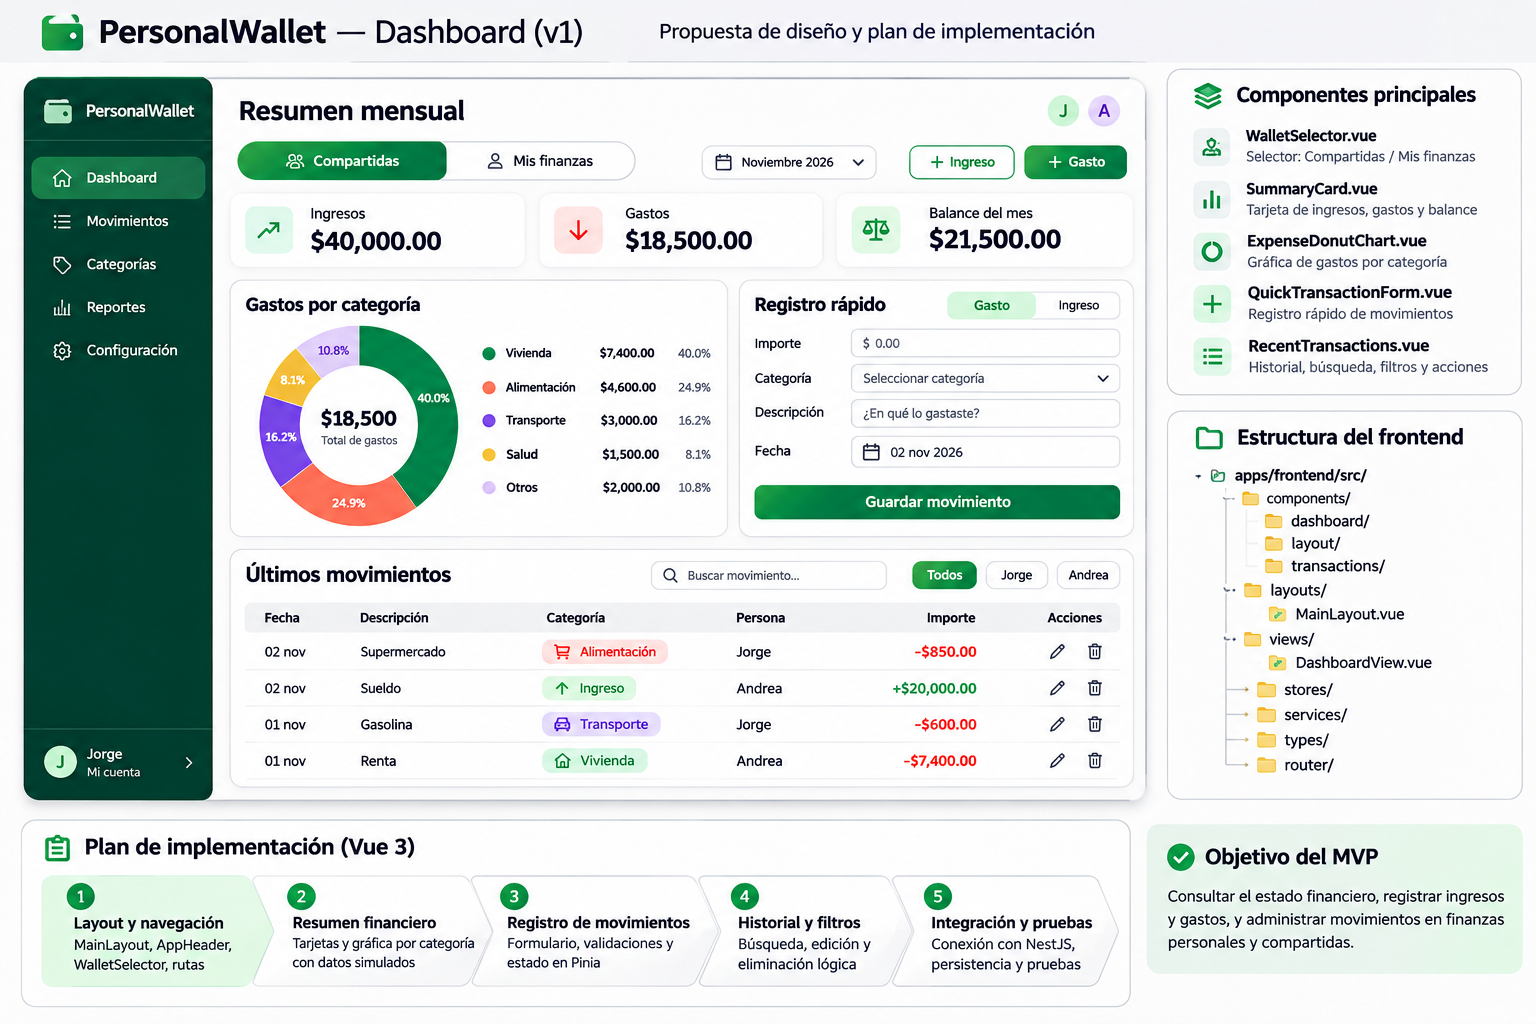
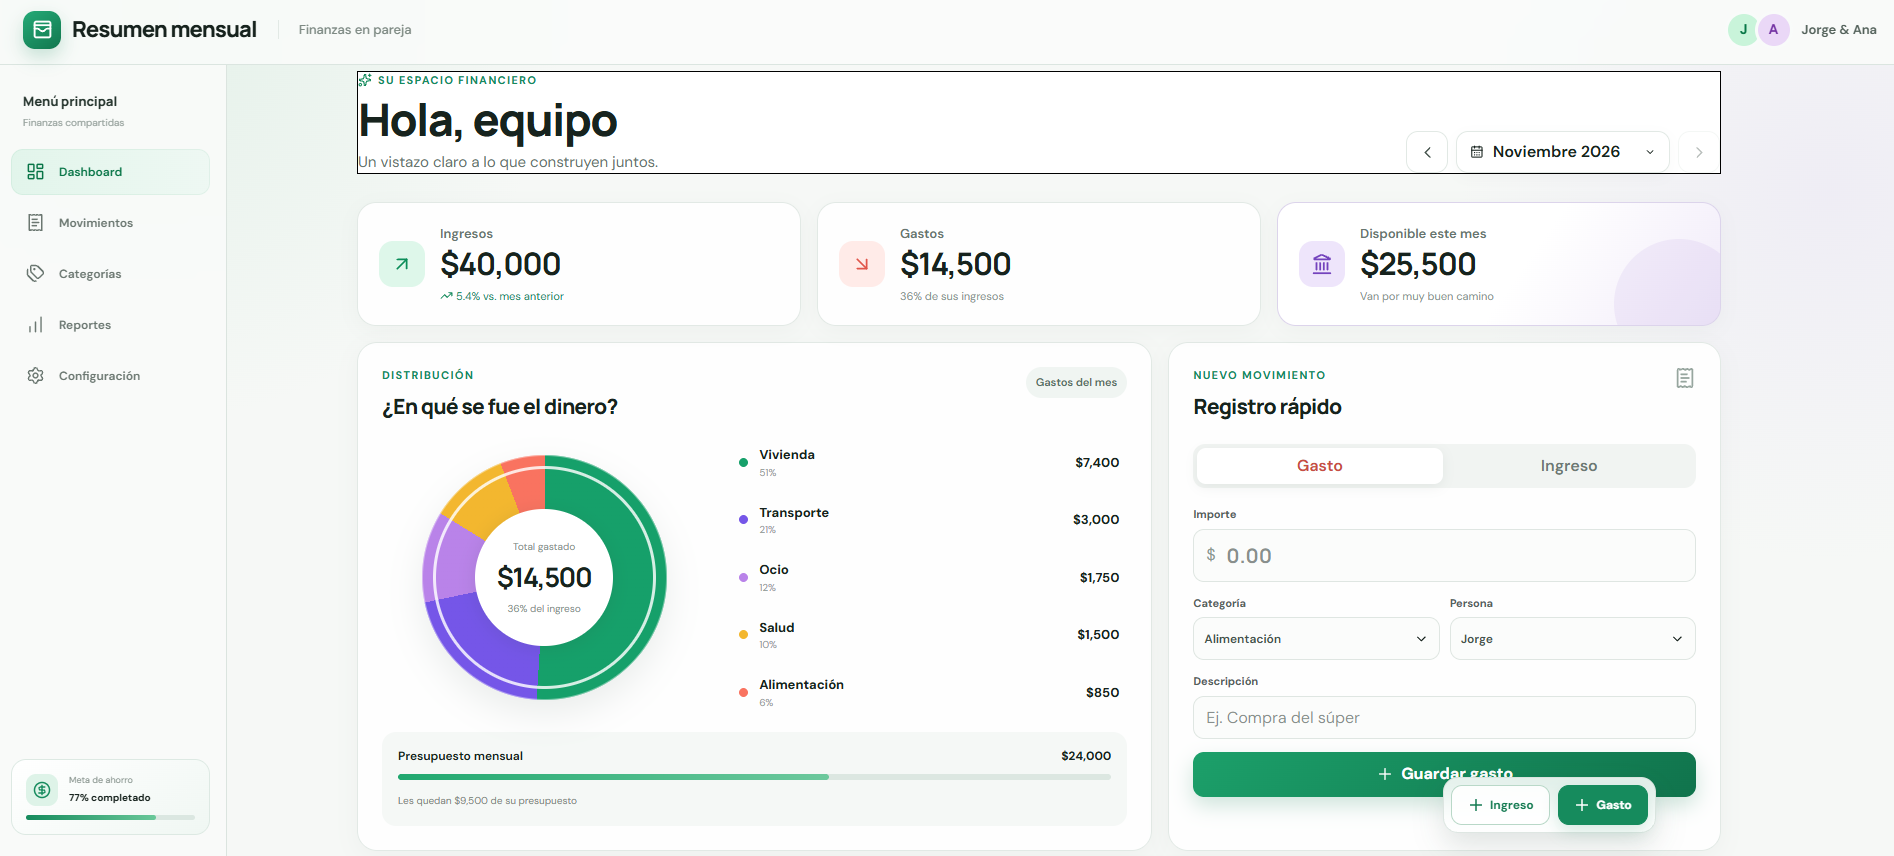
Cambios visuale para componente de layout

diff --git a/apps/frontend/src/layouts/MainLayout.vue b/apps/frontend/src/layouts/MainLayout.vue
@@ -1,35 +1,44 @@
 <script setup lang="ts">
 import { RouterLink, RouterView } from 'vue-router'
 import AppHeader from '@/components/layout/AppHeader.vue'
-import WalletSelector from '@/components/layout/WalletSelector.vue'
-import { demoUser } from '@/mocks/wallets'
+import LayoutIcon, { type LayoutIconName } from '@/components/layout/LayoutIcon.vue'
+import { demoUser, demoPartner } from '@/mocks/wallets'
+
+const upcoming: { label: string; icon: LayoutIconName }[] = [
+  { label: 'Movimientos', icon: 'transactions' },
+  { label: 'Categorías', icon: 'categories' },
+  { label: 'Reportes', icon: 'reports' },
+  { label: 'Configuración', icon: 'settings' },
+]
 </script>
 
 <template>
-  <a href="#main-content" class="sr-only z-50 rounded bg-white p-3 text-emerald-900 focus:not-sr-only focus:fixed focus:left-4 focus:top-4">Saltar al contenido</a>
-  <div class="min-h-dvh bg-slate-50 md:flex">
-    <aside class="flex flex-col bg-emerald-950 text-white md:fixed md:inset-y-0 md:w-60">
-      <RouterLink to="/dashboard" class="flex items-center gap-3 border-b border-white/10 px-6 py-6 text-lg font-bold tracking-tight">
-        <svg class="size-8 text-emerald-300" viewBox="0 0 24 24" fill="none" stroke="currentColor" stroke-width="1.7" aria-hidden="true"><path d="M20 7H5a2 2 0 0 1 0-4h13v4M4 7v12a2 2 0 0 0 2 2h14V7M16 12h4v5h-4a2.5 2.5 0 0 1 0-5Z" /></svg>
-        PersonalWallet
-      </RouterLink>
-      <nav aria-label="Navegación principal" class="flex gap-2 overflow-x-auto p-3 md:flex-col md:p-4">
-        <RouterLink to="/dashboard" class="rounded-xl bg-emerald-700 px-4 py-3 text-sm font-semibold shadow-sm" active-class="ring-1 ring-white/15">Dashboard</RouterLink>
-        <span v-for="label in ['Movimientos', 'Categorías', 'Reportes', 'Configuración']" :key="label" aria-disabled="true" class="flex items-center justify-between gap-4 rounded-xl px-4 py-3 text-sm text-emerald-100/60">
-          {{ label }} <span class="text-[10px] uppercase tracking-wide">Próximamente</span>
+  <a href="#main-content" class="skip-link">Saltar al contenido</a>
+  <div class="app-shell">
+    <AppHeader :user-name="demoUser.name" :initials="demoUser.initials" :partner-name="demoPartner.name" :partner-initials="demoPartner.initials" />
+    <aside class="app-sidebar">
+      <div class="hidden px-3 pb-5 pt-1 md:block">
+        <p class="text-[13px] font-semibold">Menú principal</p>
+        <p class="mt-1 text-[11px] text-[var(--color-muted)]">Personal y compartido</p>
+      </div>
+      <nav aria-label="Navegación principal" class="flex gap-1 overflow-x-auto md:flex-col md:gap-1.5">
+        <RouterLink to="/dashboard" class="nav-item nav-item-active" active-class="is-active">
+          <LayoutIcon name="dashboard" class="size-5 shrink-0" />
+          Dashboard
+        </RouterLink>
+        <span v-for="item in upcoming" :key="item.label" aria-disabled="true" :title="`${item.label}: próximamente`" class="nav-item cursor-default">
+          <LayoutIcon :name="item.icon" class="size-5 shrink-0" />
+          {{ item.label }}
+          <span class="sr-only">Próximamente</span>
         </span>
       </nav>
-      <div class="mt-auto hidden border-t border-white/10 px-6 py-5 md:block">
-        <p class="text-sm font-medium">{{ demoUser.name }}</p>
-        <p class="mt-1 text-xs text-emerald-100/60">Sesión simulada · MXN</p>
+      <div class="mt-auto hidden rounded-2xl border border-[var(--color-line)] bg-white/50 p-4 md:block">
+        <p class="text-xs font-semibold text-[var(--color-accent)]">PersonalWallet</p>
+        <p class="mt-1 text-[11px] leading-5 text-[var(--color-muted)]">Espacios separados.<br />Moneda única: MXN.</p>
       </div>
     </aside>
-    <div class="min-w-0 flex-1 md:ml-60">
-      <AppHeader :user-name="demoUser.name" :initials="demoUser.initials" />
-      <main id="main-content" class="mx-auto max-w-7xl px-5 py-6 sm:px-8 sm:py-8" tabindex="-1">
-        <WalletSelector />
-        <RouterView />
-      </main>
-    </div>
+    <main id="main-content" class="dashboard-main" tabindex="-1">
+      <RouterView />
+    </main>
   </div>
 </template>

diff --git a/apps/frontend/src/views/DashboardView.vue b/apps/frontend/src/views/DashboardView.vue
@@ -1,26 +1,46 @@
 <script setup lang="ts">
 import { storeToRefs } from 'pinia'
 import { useWalletStore } from '@/stores/wallet.store'
+import { demoUser } from '@/mocks/wallets'
+import WalletSelector from '@/components/layout/WalletSelector.vue'
+import LayoutIcon from '@/components/layout/LayoutIcon.vue'
 
 const { selectedWallet } = storeToRefs(useWalletStore())
 </script>
 
 <template>
-  <section class="mt-8" aria-labelledby="wallet-heading">
-    <div role="status" aria-live="polite" aria-atomic="true">
-      <p class="text-xs font-semibold uppercase tracking-widest text-emerald-700">Wallet seleccionada</p>
-      <h2 id="wallet-heading" class="mt-2 text-xl font-bold text-slate-900">{{ selectedWallet.name }}</h2>
-      <p class="mt-2 max-w-2xl text-sm leading-6 text-slate-600">
-        {{ selectedWallet.type === 'PERSONAL'
-          ? 'Un espacio para tus ingresos y gastos personales, separado de las finanzas compartidas.'
-          : 'Un espacio para administrar juntos los ingresos y gastos compartidos, sin reparto automático.' }}
-      </p>
+  <section aria-labelledby="welcome-heading">
+    <div class="flex flex-col justify-between gap-5 lg:flex-row lg:items-end">
+      <div>
+        <p class="flex items-center gap-2 text-[11px] font-semibold uppercase tracking-[0.14em] text-[var(--color-accent)]">
+          <LayoutIcon name="sparkles" class="size-4" />
+          Su espacio financiero
+        </p>
+        <h2 id="welcome-heading" class="mt-2 text-4xl font-bold tracking-[-0.045em] sm:text-[46px] sm:leading-tight">
+          {{ selectedWallet.type === 'SHARED' ? 'Hola, equipo' : `Hola, ${demoUser.name}` }}
+        </h2>
+        <p class="mt-2 text-sm leading-6 text-[var(--color-muted)]">
+          {{ selectedWallet.type === 'SHARED' ? 'Un vistazo claro a lo que construyen juntos.' : 'Un vistazo claro a tus finanzas personales.' }}
+        </p>
+      </div>
+      <WalletSelector />
     </div>
-    <div class="mt-7 rounded-2xl border border-slate-200 bg-white px-6 py-12 text-center shadow-sm sm:py-20">
-      <span class="inline-flex rounded-full bg-emerald-50 px-3 py-1 text-xs font-semibold text-emerald-800">Primera etapa</span>
-      <h3 class="mt-4 text-lg font-semibold text-slate-900">Tu resumen financiero comienza aquí</h3>
-      <p class="mx-auto mt-2 max-w-md text-sm leading-6 text-slate-500">En las siguientes etapas podrás consultar balances y registrar movimientos en este espacio.</p>
-    </div>
-    <p class="mt-5 text-xs leading-5 text-slate-500">Vista de demostración con wallets simuladas. La autenticación y la conexión al backend están pendientes.</p>
+
+    <section class="workspace-panel mt-7" aria-labelledby="wallet-heading">
+      <div role="status" aria-live="polite" aria-atomic="true">
+        <span class="inline-flex rounded-full bg-[var(--color-accent-soft)] px-3 py-1 text-[11px] font-semibold text-[var(--color-accent)]">Espacio seleccionado</span>
+        <h3 id="wallet-heading" class="mt-5 text-xl font-semibold tracking-tight">{{ selectedWallet.name }}</h3>
+        <p class="mt-2 max-w-lg text-sm leading-6 text-[var(--color-muted)]">
+          {{ selectedWallet.type === 'PERSONAL'
+            ? 'Un espacio para tus ingresos y gastos personales, separado de las finanzas compartidas.'
+            : 'Un espacio para administrar juntos los ingresos y gastos compartidos, sin reparto automático.' }}
+        </p>
+      </div>
+      <div class="mt-10 border-t border-[var(--color-line)] pt-6">
+        <p class="text-xs font-semibold">Tu resumen financiero, próximamente</p>
+        <p class="mt-2 max-w-lg text-xs leading-6 text-[var(--color-muted)]">Aquí podrás consultar tus balances, explorar gastos por categoría y registrar movimientos.</p>
+      </div>
+    </section>
+    <p class="mt-4 text-[11px] leading-5 text-[var(--color-muted)]">Vista de demostración · Wallets y usuarios simulados · MXN</p>
   </section>
 </template>

diff --git a/apps/frontend/src/assets/main.css b/apps/frontend/src/assets/main.css
@@ -1,11 +1,43 @@
 @import "tailwindcss";
 
+@theme {
+  --color-ink: #1b2924;
+  --color-muted: #74817c;
+  --color-line: #dfe8e3;
+  --color-surface: #f7faf8;
+  --color-accent: #07865b;
+  --color-accent-soft: #e5f5ed;
+}
+
 @layer base {
-  body {
-    margin: 0;
-    font-family: ui-sans-serif, system-ui, sans-serif;
-  }
-  button, a, input {
-    -webkit-tap-highlight-color: transparent;
-  }
+  body { margin: 0; font-family: "Inter", "Segoe UI", Arial, sans-serif; color: var(--color-ink); }
+  button, a, input { -webkit-tap-highlight-color: transparent; }
+  a:focus-visible { outline: 2px solid var(--color-accent); outline-offset: 3px; }
+}
+
+@layer components {
+  .app-shell { min-height: 100dvh; background: radial-gradient(ellipse at 0 0, #e8f4ed, transparent 55%), radial-gradient(ellipse at 100% 0, #f0edf7, transparent 50%), #f5f8f6; }
+  .app-header { height: 65px; display: flex; align-items: center; justify-content: space-between; gap: 12px; padding: 0 23px; border-bottom: 1px solid var(--color-line); background: #f9fbfa; }
+  .brand-mark { display: flex; align-items: center; justify-content: center; flex-shrink: 0; width: 38px; height: 38px; border-radius: 12px; color: white; background: linear-gradient(135deg, #21ac7d, #087549); box-shadow: 0 6px 16px #0b8b6126; }
+  .avatar { display: flex; align-items: center; justify-content: center; width: 34px; height: 34px; border-radius: 100%; border: 2px solid #f9fbfa; font-size: 13px; font-weight: 600; }
+  .app-sidebar { display: flex; flex-direction: column; padding: 24px 11px 20px; background: #f8faf9; border-right: 1px solid var(--color-line); }
+  .nav-item { position: relative; display: flex; align-items: center; gap: 14px; white-space: nowrap; border: 1px solid transparent; border-radius: 12px; padding: 13px 14px; color: #6f7d76; font-size: 12px; font-weight: 600; }
+  .nav-item-active { color: #008454; border-color: #d5eee2; background: linear-gradient(100deg, #e1f4eb, #eff9f4); }
+  .dashboard-main { width: 100%; max-width: 1428px; margin: 0 auto; padding: 35px 32px; }
+  .workspace-panel { border: 1px solid var(--color-line); border-radius: 20px; background: #ffffffeb; padding: 30px 24px; box-shadow: 0 8px 25px #243c2f04; }
+  .skip-link { position: fixed; left: 16px; top: -100px; z-index: 50; background: white; padding: 12px; border-radius: 8px; }
+  .skip-link:focus { top: 12px; }
+}
+
+@media (min-width: 768px) {
+  .app-shell { padding-left: 227px; padding-top: 65px; }
+  .app-header { position: fixed; top: 0; left: 0; right: 0; z-index: 20; }
+  .app-sidebar { position: fixed; left: 0; top: 65px; bottom: 0; width: 227px; }
+  .workspace-panel { min-height: 300px; }
+}
+
+@media (max-width: 767px) {
+  .app-header { padding: 0 16px; }
+  .app-sidebar { padding: 10px; border-right: 0; border-bottom: 1px solid var(--color-line); }
+  .dashboard-main { padding: 26px 20px; }
 }

diff --git a/apps/frontend/src/components/layout/AppHeader.vue b/apps/frontend/src/components/layout/AppHeader.vue
@@ -1,19 +1,23 @@
 <script setup lang="ts">
-defineProps<{ userName: string; initials: string }>()
+import LayoutIcon from './LayoutIcon.vue'
+defineProps<{ userName: string; initials: string; partnerName: string; partnerInitials: string }>()
 </script>
 
 <template>
-  <header class="flex items-center justify-between gap-4 border-b border-slate-200 bg-white px-5 py-5 sm:px-8">
-    <div>
-      <p class="text-xs font-semibold uppercase tracking-widest text-emerald-700">Tu espacio financiero</p>
-      <h1 class="mt-1 text-2xl font-bold tracking-tight text-slate-950 sm:text-3xl">Resumen mensual</h1>
+  <header class="app-header">
+    <div class="flex min-w-0 items-center gap-3">
+      <RouterLink to="/dashboard" aria-label="PersonalWallet — inicio" class="brand-mark">
+        <LayoutIcon name="wallet" class="size-6" />
+      </RouterLink>
+      <h1 class="truncate text-lg font-bold tracking-tight sm:text-[23px]">Resumen mensual</h1>
+      <span class="ml-2 hidden border-l border-[var(--color-line)] pl-5 text-[13px] text-[var(--color-muted)] lg:block">Finanzas en pareja</span>
     </div>
-    <div class="flex shrink-0 items-center gap-3" aria-label="Usuario de demostración">
-      <span class="flex size-10 items-center justify-center rounded-full bg-emerald-100 font-semibold text-emerald-800" aria-hidden="true">{{ initials }}</span>
-      <div class="hidden sm:block">
-        <p class="text-sm font-semibold text-slate-900">{{ userName }}</p>
-        <p class="text-xs text-slate-500">Cuenta de demostración</p>
+    <div class="flex shrink-0 items-center gap-3" :aria-label="`Usuarios de demostración: ${userName} y ${partnerName}`">
+      <div class="flex -space-x-1.5" aria-hidden="true">
+        <span class="avatar bg-emerald-100 text-emerald-700">{{ initials }}</span>
+        <span class="avatar bg-purple-100 text-purple-700">{{ partnerInitials }}</span>
       </div>
+      <span class="hidden text-xs font-semibold text-[var(--color-muted)] sm:block">{{ userName }} &amp; {{ partnerName }}</span>
     </div>
   </header>
 </template>

diff --git a/apps/frontend/src/components/layout/WalletSelector.vue b/apps/frontend/src/components/layout/WalletSelector.vue
@@ -1,18 +1,13 @@
 <script setup lang="ts">
 import { useWalletStore } from '@/stores/wallet.store'
-
 const walletStore = useWalletStore()
 </script>
 
 <template>
-  <fieldset>
-    <legend class="mb-2 text-sm font-medium text-slate-600">Espacio financiero</legend>
-    <div class="inline-flex w-full rounded-2xl border border-slate-200 bg-white p-1 sm:w-auto">
-      <label
-        v-for="wallet in walletStore.wallets"
-        :key="wallet.id"
-        class="relative flex flex-1 cursor-pointer sm:flex-none"
-      >
+  <fieldset class="min-w-0">
+    <legend class="mb-2 text-[11px] font-medium text-[var(--color-muted)]">Espacio financiero</legend>
+    <div class="inline-flex w-full rounded-xl border border-[var(--color-line)] bg-[var(--color-surface)] p-1 sm:w-auto">
+      <label v-for="wallet in walletStore.wallets" :key="wallet.id" class="relative flex min-w-0 flex-1 cursor-pointer sm:flex-none">
         <input
           type="radio"
           name="wallet"
@@ -21,7 +16,7 @@ const walletStore = useWalletStore()
           class="peer absolute inset-0 z-10 h-full w-full cursor-pointer opacity-0"
           @change="walletStore.selectWallet(wallet.id)"
         />
-        <span class="w-full rounded-xl px-5 py-3 text-center text-sm font-semibold text-slate-600 transition peer-checked:bg-emerald-700 peer-checked:text-white peer-focus-visible:outline-2 peer-focus-visible:outline-offset-2 peer-focus-visible:outline-emerald-600 sm:min-w-40">
+        <span class="w-full rounded-lg px-4 py-2.5 text-center text-xs font-semibold text-[var(--color-muted)] transition peer-checked:bg-[var(--color-accent)] peer-checked:text-white peer-focus-visible:outline-2 peer-focus-visible:outline-offset-2 peer-focus-visible:outline-[var(--color-accent)] sm:min-w-32">
           {{ wallet.name }}
         </span>
       </label>

diff --git a/apps/frontend/e2e/vue.spec.ts b/apps/frontend/e2e/vue.spec.ts
@@ -1,7 +1,7 @@
 import { test, expect } from '@playwright/test'
 
 for (const viewport of [{ width: 1440, height: 900 }, { width: 390, height: 844 }]) {
-  test(`dashboard y selector a ${viewport.width}px`, async ({ page }) => {
+  test(`dashboard y selector a ${viewport.width}px`, async ({ page }, testInfo) => {
     await page.setViewportSize(viewport)
     await page.goto('/')
     await expect(page).toHaveURL(/\/dashboard$/)
@@ -11,6 +11,8 @@ for (const viewport of [{ width: 1440, height: 900 }, { width: 390, height: 844 
     await expect(page.getByRole('heading', { name: 'Compartidas', exact: true })).toBeVisible()
     await page.getByLabel('Mis finanzas', { exact: true }).check()
     await expect(page.getByRole('heading', { name: 'Mis finanzas', exact: true })).toBeVisible()
+    await page.getByLabel('Compartidas', { exact: true }).check()
+    await page.screenshot({ path: testInfo.outputPath('dashboard.png'), fullPage: true, animations: 'disabled' })
     await page.reload()
     await expect(page.getByRole('heading', { name: 'Resumen mensual' })).toBeVisible()
     expect(await page.evaluate(() => document.documentElement.scrollWidth <= window.innerWidth)).toBe(true)

diff --git a/apps/frontend/src/components/layout/LayoutIcon.vue b/apps/frontend/src/components/layout/LayoutIcon.vue
@@ -1,0 +1,19 @@
+<script setup lang="ts">
+export type LayoutIconName = 'wallet' | 'dashboard' | 'transactions' | 'categories' | 'reports' | 'settings' | 'sparkles'
+defineProps<{ name: LayoutIconName }>()
+const paths: Record<LayoutIconName, string> = {
+  wallet: 'M4 5h16v15H4z M4 9h16 M7 13l5 3 5-3 M7 2h10',
+  dashboard: 'M3 3h7v7H3z M14 3h7v4h-7z M3 14h7v7H3z M14 11h7v10h-7z',
+  transactions: 'M5 3l2 1 2-1 3 1 3-1 2 1 2-1v18l-2-1-2 1-3-1-3 1-2-1-2 1z M8 8h8 M8 12h8 M8 16h5',
+  categories: 'M3 4h8l10 10-7 7L3 10z M7 8h.01 M15 3l6 6',
+  reports: 'M5 20v-6 M12 20V8 M19 20V3',
+  settings: 'M9 3h6l1 4 4 1v7l-4 1-1 5H9l-1-5-4-1V8l4-1z M15 12a3 3 0 1 1-6 0 3 3 0 0 1 6 0',
+  sparkles: 'M12 3l2 6 6 2-6 2-2 6-2-6-6-2 6-2z M20 2v4 M18 4h4',
+}
+</script>
+
+<template>
+  <svg viewBox="0 0 24 24" fill="none" stroke="currentColor" stroke-width="1.6" stroke-linecap="round" stroke-linejoin="round" aria-hidden="true">
+    <path :d="paths[name]" />
+  </svg>
+</template>

diff --git a/apps/frontend/src/__tests__/App.spec.ts b/apps/frontend/src/__tests__/App.spec.ts
@@ -14,12 +14,12 @@ describe('Layout y navegación', () => {
     await flushPromises()
 
     expect(router.currentRoute.value.path).toBe('/dashboard')
-    expect(wrapper.get('h2').text()).toBe('Mis finanzas')
+    expect(wrapper.get('#wallet-heading').text()).toBe('Mis finanzas')
     await wrapper.get('input[value="shared-demo"]').setValue()
-    expect(wrapper.get('h2').text()).toBe('Compartidas')
+    expect(wrapper.get('#wallet-heading').text()).toBe('Compartidas')
     expect(wrapper.get('[role="status"]').text()).toContain('sin reparto automático')
     await wrapper.get('input[value="personal-demo"]').setValue()
-    expect(wrapper.get('h2').text()).toBe('Mis finanzas')
+    expect(wrapper.get('#wallet-heading').text()).toBe('Mis finanzas')
 
     const store = useWalletStore(pinia)
     store.selectWallet('personal-ajena')

diff --git a/apps/frontend/src/mocks/wallets.ts b/apps/frontend/src/mocks/wallets.ts
@@ -6,3 +6,5 @@ export const demoWallets: readonly Wallet[] = [
   { id: 'personal-demo', name: 'Mis finanzas', type: 'PERSONAL' },
   { id: 'shared-demo', name: 'Compartidas', type: 'SHARED' },
 ]
+
+export const demoPartner = { name: 'Ana', initials: 'A' } as const

diff --git a/docs/docs/ui/dashboard.md b/docs/docs/ui/dashboard.md
@@ -8,11 +8,12 @@
 
 Permitir que los dos usuarios autorizados consulten sus ingresos, gastos y balance mensual, administrando por separado sus finanzas personales y compartidas.
 
-## Referencia visual
+## Diseño de referencia
 
-![Dashboard PersonalWallet v1](./images/image.png)
-
-La imagen representa el diseño objetivo. Los importes son datos simulados y no corresponden a información financiera real.
+- Herramienta: Figma
+- Estado: Diseño aprobado
+- Archivo: [PersonalWallet — Dashboard](URL_DE_FIGMA)
+- Captura: ./images/image.png
 
 ## Componentes principales
 
@@ -71,3 +72,21 @@ La primera versión del frontend utilizará datos simulados y Pinia. Posteriorme
 ## Avance de implementación
 
 La primera etapa incorpora MainLayout, AppHeader, WalletSelector y DashboardView, con navegación a /dashboard y wallets simuladas en Pinia. El resumen financiero, el formulario, las gráficas, el historial y la autenticación siguen pendientes. El selector cambia el contexto visible; todavía no existen consultas ni movimientos que actualizar.
+
+
+## Adaptación visual desde captura
+
+El layout y la navegación se adaptaron a la captura compartida por el usuario de la [propuesta de Figma](https://www.figma.com/make/HP1IpXT0Lh64VTupMvSQ07/Control-de-Finanzas-en-Pareja).
+
+- Encabezado superior de 65 px, barra lateral clara de 227 px en escritorio, opción activa verde, avatares simulados de Jorge y Ana y fondo con degradados suaves.
+- Saludo contextual: «Hola, Jorge» en finanzas personales y «Hola, equipo» en compartidas.
+- Selector de wallet conservado como requisito funcional, aunque no se muestra en la captura. La selección sigue en memoria con Pinia y comienza en «Mis finanzas».
+- En móvil, el menú se desplaza horizontalmente y el selector se coloca debajo del saludo.
+
+### Diferencias y límites de esta etapa
+
+La referencia se interpretó visualmente desde una captura, sin medidas, tokens, fuentes ni assets exportados de Figma. Se utiliza la fuente local disponible (Inter, Segoe UI o Arial) y una colección pequeña de iconos SVG aproximados en LayoutIcon; no se garantiza coincidencia exacta de tipografía ni iconografía.
+
+Las tarjetas, gráfica, presupuesto, meta de ahorro, formulario, controles de mes y acciones flotantes de la captura quedan pendientes. El área central muestra el contexto de la wallet y un aviso de futuras funciones. No se implementa el selector de persona del formulario, excluido por los requisitos de v1.
+
+Validación: ESLint, type-check y build correctos; una prueba unitaria y dos E2E en Chromium (1440 × 900 y 390 × 844) correctas. Se inspeccionaron las capturas generadas para comparar el layout con la referencia y se verificó la ausencia de desbordamiento horizontal. Las capturas se generan en test-results y no se versionan.
